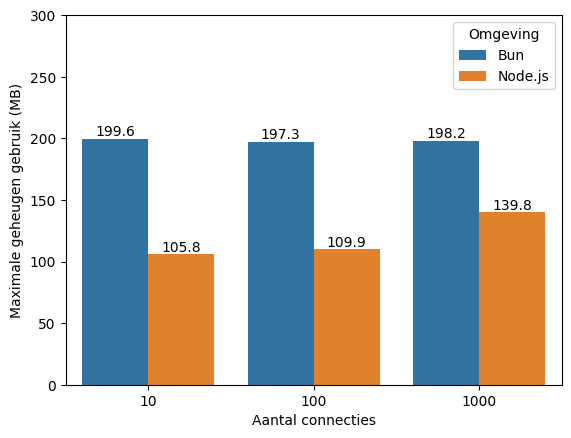
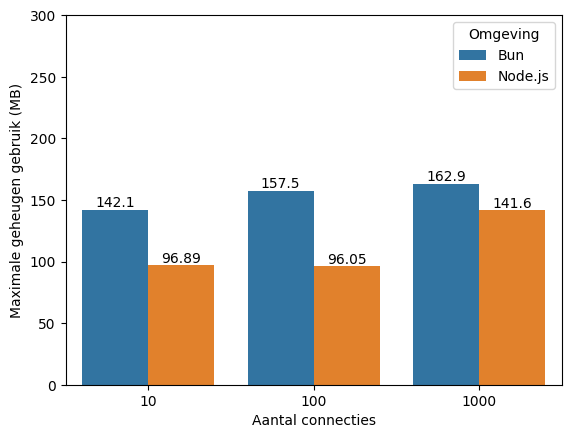
Toevoeging postgresql GET en POST

diff --git a/bachproef/proof-of-concept.tex b/bachproef/proof-of-concept.tex
@@ -23,10 +23,7 @@ Deze metingen zullen worden uitgevoerd op een Mac mini met volgende specificatie
   \item Versie 1.1.3 van Bun.
 \end{itemize}
 De eerste proof-of-concept zal bestaan uit een script dat het Quick Sort algoritme bevat. 
-Deze zal dienen om de computationele verwerking van elke omgeving te beoordelen. Hierbij wordt rekening gehouden met volgende metingen:
-\begin{itemize}
-    \item De gemiddelde uitvoeringstijd.
-\end{itemize}
+Deze zal dienen om de computationele verwerking van elke omgeving te beoordelen. Hierbij wordt rekening gehouden met de gemiddelde uitvoeringstijd.
 Het Quick Sort algoritme zal een meegegeven array sorteren door een spil element te kiezen binnen de array
 waarna de array in 2 arrays wordt opgesplitst. De eerste array zal elementen bevatten die kleiner zijn dan het spil element 
 en de andere array zal elementen bevatten die groter zijn. 
@@ -92,7 +89,7 @@ Hierbij wordt rekening gehouden met volgende metingen:
     \item De gemiddelde vertraging in de overdracht, ook wel latentie genoemd.
     \item Het aantal gelijktijdige connecties.
     \item Het aantal verzoeken.
-    \item De gemiddelde installatietijd.
+    \item De gemiddelde installatietijd van de packages.
 \end{itemize}
 Bij de proof-of-concepts worden enkel de ingebouwde HTTP servers gebruikt om zo beïnvloeding van externe bibliotheken te minimaliseren.
 Voor de binnengekomen data naar een database te schrijven wordt een Object Relational Mapper (ORM) gebruikt.
@@ -621,7 +618,7 @@ Daarna moet de image worden uitgevoerd met het docker run commando zoals het voo
 Voor de HTTP server is er nog een bijkomend
 Docker Compose bestand \ref{code:dockerscript} waar aan de hand van het commando in \ref{code:dockercompose}
 zowel de databank als de server kan worden opgestart. Een voorbeeld hiervan voor zowel een MysSQL database als een PostgreSQL database is 
-respectievelijk te zien in \ref{code:dockercompose} en \ref{code:dockercomposepostgres}.
+respectievelijk te zien in \ref{code:dockercomposefile} en \ref{code:dockercomposepostgres}.
 Hiernaast wordt dan ook een Dockerfile gebruikt om de server te starten. De Dockerfile voor de Node.js en Bun server is te vinden in
 respectievelijk \ref{code:dockernode} en \ref{code:dockerbun}. 
 Om het gemiddelde CPU-gebruik en het maximale geheugengebruik te bepalen wordt het bombardier commando samen met het docker stats commando uitgevoerd in een zsh script.
@@ -781,7 +778,7 @@ services:
       DB_DATABASE: review
       DB_DIALECT: mysql
       \end{minted}
-      \caption{\label{code:dockercompose}Docker Compose bestand voor het opstarten van de MySQL database en server}
+      \caption{\label{code:dockercomposefile}Docker Compose bestand voor het opstarten van de MySQL database en server}
 \end{listing}
 \begin{listing}[H]
   \centering
@@ -1049,12 +1046,15 @@ is dan Node.js met een gemiddelde installatietijd van 610,1 milleseconden.
 
 Voor de andere resultaten werd gebruikgemaakt van Bombardier waarbij telkens met 10, 100 en 1000 connecties 
 500000 verzoeken werden gestuurd naar de server.
+
+\subsubsection{Resultaten voor de applicatie met een MySQL database}
+In deze sectie worden de bekomen resultaten van de applicatie besproken waarbij een MySQL database werd gebruikt.
 In tabel \ref{tab:getbombardier} kunnen de resultaten gezien worden van de metingen waarbij de onderwerpen werden opgehaald aan de hand van een GET verzoek.
 Er wordt gestreefd naar een zo hoog mogelijk aantal verzoeken per seconde met een zo laag mogelijke latentie, geheugengebruik en cpu-gebruik.
 Zoals te zien scoort Bun op het vlak van aantal verzoeken per seconde en latentie beter dan Node.js ongeacht van het aantal connecties. 
-Echter heeft Bun bij het aantal verzoeken per seconde wel telkens een grotere standaardafwijking en er dus meer uitschieters aanwezig zijn.
-Langs de andere kant verbruikt Bun telkens meer resources. Zo heeft Bun bij elke connectie een hoger CPU-gebruik en zijn de pieken van het geheugen consistent hoger dan bij Node.js.
-In figuren \ref{fig:getaantalverzoekenmysql}, \ref{fig:getaantallatentienmysql}, \ref{fig:getgeheugennmysq} en \ref{fig:getcpymysql} kunnen de visuele voorstellingen 
+Echter heeft Bun bij het aantal verzoeken per seconde wel telkens een grotere standaardafwijking en zijn er dus meer uitschieters aanwezig zijn.
+Langs de andere kant verbruikt Bun telkens meer resources. Zo heeft Bun bij elke aantal connecties een hoger CPU-gebruik en zijn de pieken van het geheugen consistent hoger dan bij Node.js.
+In figuren \ref{fig:getaantalverzoekenmysql}, \ref{fig:getaantallatentienmysql}, \ref{fig:getgeheugenmysql} en \ref{fig:getcpumysql} kunnen de visuele voorstellingen 
 voor respectievelijk het aantal verzoeken per seconde, het aantal latentie, het maximale geheugengebruik en het gemiddeld CPU-gebruik worden gevonden.
 \begin{table}[]
   \begin{tabular}{|c|cccccc|}
@@ -1068,7 +1068,7 @@ voor respectievelijk het aantal verzoeken per seconde, het aantal latentie, het 
   \begin{tabular}[c]{@{}c@{}}Maximale \\ geheugengebruik \\ (MB)\end{tabular}                & 152.3                & 223.2   & 242.6                     & 80.75                & 88.25                       & 130.3                 \\ \cline{1-1}
   \begin{tabular}[c]{@{}c@{}}Gemiddeld\\ CPU-gebruik\\ (\%)\end{tabular}                     & 110.90               & 137.26  & 137.52                    & 98.2                 & 102.33                      & 120.39                \\ \hline
   \end{tabular}
-  \caption{\label{tab:getbombardier}Resultaten metingen waarbij onderwerpen worden opgehaald met een GET request.}
+  \caption{\label{tab:getbombardier}Resultaten metingen waarbij onderwerpen worden opgehaald met een GET request uit de MySQL database.}
   \end{table}
 
   \begin{figure}[H]
@@ -1084,37 +1084,39 @@ voor respectievelijk het aantal verzoeken per seconde, het aantal latentie, het 
   \begin{figure}[H]
     \centering
     \includegraphics{graphics/GetMySqlRAM.png}
-    \caption{\label{fig:getgeheugennmysql}Visuele voorstelling maximale geheugen gebruik bij het ophalen van de onderwerpen.}
+    \caption{\label{fig:getgeheugenmysql}Visuele voorstelling maximale geheugen gebruik bij het ophalen van de onderwerpen.}
   \end{figure}
   \begin{figure}[H]
     \centering
     \includegraphics{graphics/GetMySqlCpu.png}
-    \caption{\label{fig:getcpymysql}Visuele voorstelling gemiddeld CPU-gebruik bij het ophalen van de onderwerpen.}
+    \caption{\label{fig:getcpumysql}Visuele voorstelling gemiddeld CPU-gebruik bij het ophalen van de onderwerpen.}
   \end{figure}
 
-In In tabel \ref{tab:postbombardier} kunnen de resultaten gezien worden van de metingen waarbij 
+In tabel \ref{tab:postbombardier} kunnen de resultaten gezien worden van de metingen waarbij 
 een gebruiker een recensie schrijft over een bepaald onderwerp door gebruik van een POST verzoek.
-Hierbij is op te merken dat Bun op alle vlakken slechter scoort dan Node.js. Zo heeft bijvoorbeeld bij 10 connecties Bun
-een lager gemiddeld aantal verzoeken (M = 3298.09; SD = 814.04) dan Node.js (M = 3794.32; SD = 855.81) en een hogere latentie (M = 3.03; SD = 1.42) 
-ondanks het feit dat het gemiddeld CPU-gebruik en maximale geheugengebruik hoger ligt.
-In figuren \ref{fig:postaantalverzoekenmysql}, \ref{fig:postaantallatentienmysql}, \ref{fig:postgeheugennmysq} en \ref{fig:postcpymysql} kunnen de visuele voorstellingen 
+Hierbij is op te merken dat Bun op zowel het vlak van gemiddeld aantal verzoeken als latentie gelijkaardig scoort aan Node.js. Zo heeft bijvoorbeeld bij 10 connecties Bun
+een gemiddeld aantal verzoeken van 3819.15 terwijl Node.js hierbij een gemiddelde heeft van 3846.18. 
+Ook bij de latentie is dit het geval waarbij Bun een latentie heeft van 2.61 milliseconden en Node.js een latentie van 2.6 milliseconden.
+Deze trend zet zich voort voor zowel 10,100 als 1000 connecties.
+Echter zit er wel een groot verschil bij het geheugengebruik en gemiddeld cpu-gebruik. Zo gebruikt Bun opvallend meer middelen als Node.js.
+Bij 10 connecties heeft Bun al een geheugengebruik van 142.1MB terwijl Node.js hier onder de 100MB blijft met een geheugengebruik van 96.89.
+Hetzelfde is te zien bij het gemiddeld CPU-gebruik, waarbij Bun 88.40\% heeft terwijl Node.js maar 69.49\% gemiddeld CPU-gebruik heeft.
+In figuren \ref{fig:postaantalverzoekenmysql}, \ref{fig:postaantallatentienmysql}, \ref{fig:postgeheugenmysql} en \ref{fig:postcpumysql} kunnen de visuele voorstellingen 
 voor respectievelijk het aantal verzoeken per seconde, het aantal latentie, het maximale geheugengebruik en het gemiddeld CPU-gebruik worden gevonden.
-  \begin{table}[]
-    \begin{tabular}{|c|cccccc|}
-    \hline
-    \multicolumn{1}{|l|}{}                                                                     & \multicolumn{1}{l}{} & Bun     & \multicolumn{1}{l|}{}     & \multicolumn{1}{l}{} & \multicolumn{1}{l}{Node.js} & \multicolumn{1}{l|}{} \\ \hline
-    Aantal connecties                                                                          & 10                   & 100     & \multicolumn{1}{c|}{1000} & 10                   & 100                         & 1000                  \\ \hline
-    \begin{tabular}[c]{@{}c@{}}Gemiddeld aantal \\ verzoeken per seconde\end{tabular}          & 3298.09              & 2681.90 & 2691.37                   & 3794.32              & 3701.00                     & 3473.10               \\ \cline{1-1}
-    \begin{tabular}[c]{@{}c@{}}Standaardafwijking aantal \\ verzoeken per seconde\end{tabular} & 814.04               & 1123.90 & ;922.81                   & 855.81               & 819.77                      & 795.27                \\ \cline{1-1}
-    \begin{tabular}[c]{@{}c@{}}Latentie \\ (milliseconden)\end{tabular}                        & 3.03                 & 37.27   & 370.51                    & 2.63                 & 27.01                       & 287.24                \\ \cline{1-1}
-    \begin{tabular}[c]{@{}c@{}}Standaardafwijking\\ latentie\\ (milliseconden)\end{tabular}    & 1.42                 & 18.18   & 155.75                    & 1.27                 & 4.29                        & 28.95                 \\ \cline{1-1}
-    \begin{tabular}[c]{@{}c@{}}Maximale \\ geheugengebruik \\ (MB)\end{tabular}                & 199.6                & 197.3   & 198.2                     & 105.8                & 109.9                       & 139.8                 \\ \cline{1-1}
-    \begin{tabular}[c]{@{}c@{}}Gemiddeld\\ CPU-gebruik\\ (\%)\end{tabular}                     & 87.87                & 82.27   & 82.74                     & 68.11                & 71.46                       & 78.49                 \\ \hline
-    \end{tabular}
-    \caption{\label{tab:postbombardier}Resultaten metingen waarbij door een bepaalde gebruiker 
-    een recensie over een onderwerp werd gemaakt met een POST request.}
-    \end{table}
-
+    \begin{table}[]
+      \begin{tabular}{|c|cccccc|}
+      \hline
+      \multicolumn{1}{|l|}{}                                                                    & \multicolumn{1}{l}{} & Bun     & \multicolumn{1}{l|}{}     & \multicolumn{1}{l}{} & \multicolumn{1}{l}{Node.js} & \multicolumn{1}{l|}{} \\ \hline
+      Aantal connecties                                                                          & 10                   & 100     & \multicolumn{1}{c|}{1000} & 10                   & 100                         & 1000                  \\ \hline
+      \begin{tabular}[c]{@{}c@{}}Gemiddeld aantal \\ verzoeken per seconde\end{tabular}          & 3819.45              & 3635.03 & 3392.05                   & 3846.18              & 3633.61                     & 3414.71               \\ \cline{1-1}
+      \begin{tabular}[c]{@{}c@{}}Standaardafwijking aantal \\ verzoeken per seconde\end{tabular} & 862.64               & 848.28  & 816.84                    & 831.95               & 853.46                      & 851.05                \\ \cline{1-1}
+      \begin{tabular}[c]{@{}c@{}}Latentie \\ (milliseconden)\end{tabular}                        & 2.61                 & 27.50   & 294.58                    & 2.6                  & 27.52                       & 292.67                \\ \cline{1-1}
+      \begin{tabular}[c]{@{}c@{}}Standaardafwijking\\ latentie\\ (milliseconden)\end{tabular}    & 1.2                  & 5.43    & 28.49                     & 1.15                 & 6.31                        & 39.16                 \\ \cline{1-1}
+      \begin{tabular}[c]{@{}c@{}}Maximale \\ geheugengebruik \\ (MB)\end{tabular}                & 142.1                & 157.5   & 162.9                     & 96.89                & 96.05                       & 141.6                 \\ \cline{1-1}
+      \begin{tabular}[c]{@{}c@{}}Gemiddeld\\ CPU-gebruik\\ (\%)\end{tabular}                     & 88.40                & 96.88   & 102.62                    & 69.49                & 66.88                       & 75.38                 \\ \hline
+      \end{tabular}
+      \caption{\label{tab:postbombardier}Resultaten metingen waarbij door een bepaalde gebruiker een recensie over een onderwerp werd gemaakt in de MySQL database met een POST request.}
+      \end{table}
     \begin{figure}[H]
       \centering
       \includegraphics{graphics/PostMySqlVerzoeken.png}
@@ -1128,14 +1130,103 @@ voor respectievelijk het aantal verzoeken per seconde, het aantal latentie, het 
     \begin{figure}[H]
       \centering
       \includegraphics{graphics/PostMySqlRAM.png}
-      \caption{\label{fig:postgeheugennmysql}Visuele voorstelling maximale geheugen gebruik bij het maken van een recensie.}
+      \caption{\label{fig:postgeheugenmysql}Visuele voorstelling maximale geheugen gebruik bij het maken van een recensie.}
     \end{figure}
     \begin{figure}[H]
       \centering
       \includegraphics{graphics/PostMySqlCpu.png}
-      \caption{\label{fig:postcpymysql}Visuele voorstelling gemiddeld CPU-gebruik bij het maken van een recensie.}
+      \caption{\label{fig:postcpumysql}Visuele voorstelling gemiddeld CPU-gebruik bij het maken van een recensie.}
     \end{figure}
+\subsection{Resultaten voor de applicatie met een PostgreSQL database}
+In deze sectie worden de bekomen resultaten van de applicatie besproken waarbij een PostgreSQL database werd gebruikt.
+In tabel \ref{tab:getbombardierpostgres} kunnen de resultaten gezien worden van de metingen waarbij de onderwerpen werden opgehaald aan de hand van een GET verzoek.
+Er wordt hierbij gestreefd naar een zo hoog mogelijk aantal verzoeken per seconde met een zo laag mogelijke latentie, geheugengebruik en cpu-gebruik.
+Zoals te zien scoort Bun ook weer hier beter op zowel het vlak van aantal verzoeken per seconde als latentie.
+Langs de andere kant verbruikt Bun telkens meer resources. Zo heeft Bun bij elke aantal connecties een hoger CPU-gebruik en zijn de pieken van het geheugen consistent hoger dan bij Node.js.
+In figuren \ref{fig:getaantalverzoekenpostgres}, \ref{fig:getaantallatentienpostgres}, \ref{fig:getgeheugenpostgres} en \ref{fig:getcpupostgres} kunnen de visuele voorstellingen 
+voor respectievelijk het aantal verzoeken per seconde, het aantal latentie, het maximale geheugengebruik en het gemiddeld CPU-gebruik worden gevonden.
+\begin{table}[]
+  \begin{tabular}{|c|cccccc|}
+  \hline
+  \multicolumn{1}{|l|}{}                                                                    & \multicolumn{1}{l}{} & Bun     & \multicolumn{1}{l|}{}     & \multicolumn{1}{l}{} & \multicolumn{1}{l}{Node.js} & \multicolumn{1}{l|}{} \\ \hline
+  Aantal connecties                                                                          & 10                   & 100     & \multicolumn{1}{c|}{1000} & 10                   & 100                         & 1000                  \\ \hline
+  \begin{tabular}[c]{@{}c@{}}Gemiddeld aantal \\ verzoeken per seconde\end{tabular}          & 9532.83              & 8411.02 & 7957.07                   & 7806.74              & 7645.64                     & 6804                  \\ \cline{1-1}
+  \begin{tabular}[c]{@{}c@{}}Standaardafwijking aantal \\ verzoeken per seconde\end{tabular} & 3047.08              & 2632.57 & 2781.16                   & 2881.15              & 1893.91                     & 2922.3                \\ \cline{1-1}
+  \begin{tabular}[c]{@{}c@{}}Latentie \\ (milliseconden)\end{tabular}                        & 1.05                 & 11.89   & 125.63                    & 1.28                 & 13.08                       & 146.94                \\ \cline{1-1}
+  \begin{tabular}[c]{@{}c@{}}Standaardafwijking\\ latentie\\ (milliseconden)\end{tabular}    & 0.66886              & 2.72    & 21.85                     & 1.18                 & 2.4                         & 31.43                 \\ \cline{1-1}
+  \begin{tabular}[c]{@{}c@{}}Maximale \\ geheugengebruik \\ (MB)\end{tabular}                & 171.9                & 252.6   & 245.9                     & 123.1                & 94.83                       & 125                   \\ \cline{1-1}
+  \begin{tabular}[c]{@{}c@{}}Gemiddeld\\ CPU-gebruik\\ (\%)\end{tabular}                     & 108.35               & 116.66  & 122.49                    & 95.96                & 103.10                      & 119.70                \\ \hline
+  \end{tabular}
+  \caption{\label{tab:getbombardierpostgres}Resultaten metingen waarbij onderwerpen worden opgehaald met een GET request uit de PostgreSQL database.}
+  \end{table}
+  
+  \begin{figure}[H]
+    \centering
+    \includegraphics{graphics/GetPostgresVerzoeken.png}
+    \caption{\label{fig:getaantalverzoekenpostgres}Visuele voorstelling gemiddeld aantal verzoeken per seconde bij het ophalen van de onderwerpen.}
+  \end{figure}
+  \begin{figure}[H]
+    \centering
+    \includegraphics{graphics/GetPostgresLatentie.png}
+    \caption{\label{fig:getaantallatentienpostgres}Visuele voorstelling gemiddelde latentie bij het ophalen van de onderwerpen.}
+  \end{figure}
+  \begin{figure}[H]
+    \centering
+    \includegraphics{graphics/GetPostgresRAM.png}
+    \caption{\label{fig:getgeheugenpostgres}Visuele voorstelling maximale geheugen gebruik bij het ophalen van de onderwerpen.}
+  \end{figure}
+  \begin{figure}[H]
+    \centering
+    \includegraphics{graphics/GetPostgresCpu.png}
+    \caption{\label{fig:getcpupostgres}Visuele voorstelling gemiddeld CPU-gebruik bij het ophalen van de onderwerpen.}
+  \end{figure}
 
+In tabel \ref{tab:postbombardierpostgres} kunnen de resultaten gezien worden van de metingen waarbij 
+een gebruiker een recensie schrijft over een bepaald onderwerp door gebruik van een POST verzoek.
+In tegenstelling tot de resultaten bij de MySQL database scoort Bun bij de PostgreSQL database wel beter op vlak van gemiddeld aantal verzoeken per seconde en latentie.
+Zo heeft Bun bij 10 connecties een gemiddelde van 5292.63 aantal verzoeken per seconde met een latentie van 1.92 milliseconden. 
+Dit tegenover Node.js met een gemiddelde van 4544.67 verzoeken per seconde en een latentie van 2.20 milliseconden.
+Deze trend zet zich voort voor zowel bij de 100 en 1000 connecties.
+Op vlak van middelengebruik is er ook een groot verschil. Echter scoort Node.js hierbij beter.
+ Zo heeft het bijvoorbeeld bij 10 connecties een maximaal geheugengebruik van 103.2MB en een gemiddeld CPU-gebruik van 86.07\%.
+Bij Bun is dit hoger met een geheugengebruik van 189MB en een gemiddeld CPU-gebruik van 117.17\%.
+In figuren \ref{fig:postaantalverzoekenpostgres}, \ref{fig:postaantallatentiepostgres}, \ref{fig:postgeheugenpostgres} en \ref{fig:postcpupostgres} kunnen de visuele voorstellingen 
+voor respectievelijk het aantal verzoeken per seconde, het aantal latentie, het maximale geheugengebruik en het gemiddeld CPU-gebruik worden gevonden.
+\begin{table}[]
+  \begin{tabular}{|c|cccccc|}
+  \hline
+  \multicolumn{1}{|l|}{}                                                                    & \multicolumn{1}{l}{} & Bun     & \multicolumn{1}{l|}{}     & \multicolumn{1}{l}{} & \multicolumn{1}{l}{Node.js} & \multicolumn{1}{l|}{} \\ \hline
+  Aantal connecties                                                                          & 10                   & 100     & \multicolumn{1}{c|}{1000} & 10                   & 100                         & 1000                  \\ \hline
+  \begin{tabular}[c]{@{}c@{}}Gemiddeld aantal \\ verzoeken per seconde\end{tabular}          & 5292.63              & 4822.01 & 4558.17                   & 4544.67              & 4186.12                     & 3858.06               \\ \cline{1-1}
+  \begin{tabular}[c]{@{}c@{}}Standaardafwijking aantal \\ verzoeken per seconde\end{tabular} & 1292.34              & 1188.03 & 1211.57                   & 1636.54              & 1385.00                     & 1348.82               \\ \cline{1-1}
+  \begin{tabular}[c]{@{}c@{}}Latentie \\ (milliseconden)\end{tabular}                        & 1.92                 & 20.74   & 219.19                    & 2.20                 & 23.90                       & 259.09                \\ \cline{1-1}
+  \begin{tabular}[c]{@{}c@{}}Standaardafwijking\\ latentie\\ (milliseconden)\end{tabular}    & 0.98                 & 3.62    & 20.28                     & 4.89                 & 20.79                       & 97.51                 \\ \cline{1-1}
+  \begin{tabular}[c]{@{}c@{}}Maximale \\ geheugengebruik \\ (MB)\end{tabular}                & 189                  & 220.6   & 213.6                     & 132.8                & 103.2                       & 137.6                 \\ \cline{1-1}
+  \begin{tabular}[c]{@{}c@{}}Gemiddeld\\ CPU-gebruik\\ (\%)\end{tabular}                     & 117.17               & 125.86  & 127.87                    & 86.07                & 96.33                       & 105.22                \\ \hline
+  \end{tabular}
+  \caption{\label{tab:postbombardierpostgres}Resultaten metingen waarbij door een bepaalde gebruiker een recensie over een onderwerp werd gemaakt in de PostgreSQL database met een POST request.}
+  \end{table}
+
+  \begin{figure}[H]
+    \centering
+    \includegraphics{graphics/PostPostgresVerzoeken.png}
+    \caption{\label{fig:postaantalverzoekenpostgres}Visuele voorstelling gemiddeld aantal verzoeken per seconde bij het maken van een recensie.}
+  \end{figure}
+  \begin{figure}[H]
+    \centering
+    \includegraphics{graphics/PostPostgresLatentie.png}
+    \caption{\label{fig:postaantallatentiepostgres}Visuele voorstelling gemiddelde latentie bij het maken van een recensie.}
+  \end{figure}
+  \begin{figure}[H]
+    \centering
+    \includegraphics{graphics/PostPostgresRAM.png}
+    \caption{\label{fig:postgeheugenpostgres}Visuele voorstelling maximale geheugen gebruik bij het maken van een recensie.}
+  \end{figure}
+  \begin{figure}[H]
+    \centering
+    \includegraphics{graphics/PostMySqlCpu.png}
+    \caption{\label{fig:postcpupostgres}Visuele voorstelling gemiddeld CPU-gebruik bij het maken van een recensie.}
+  \end{figure}
 \subsection{Discussie}
 Aan de hand van de Quick Sort algoritme resultaten kan het standpunt dat Bun computationeel sneller is ondersteund worden.
 Zo was de gemiddelde uitvoeringstijd van Bun gemiddeld 2.21 keer sneller dan Node.js. Deze snellere uitvoeringstijd komt door de
